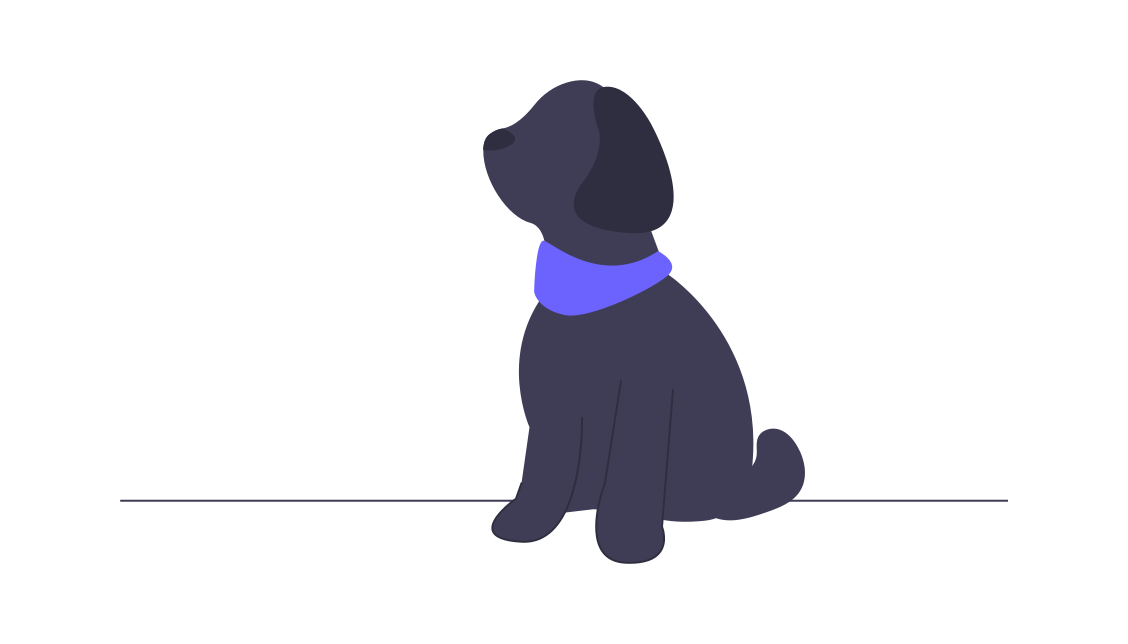
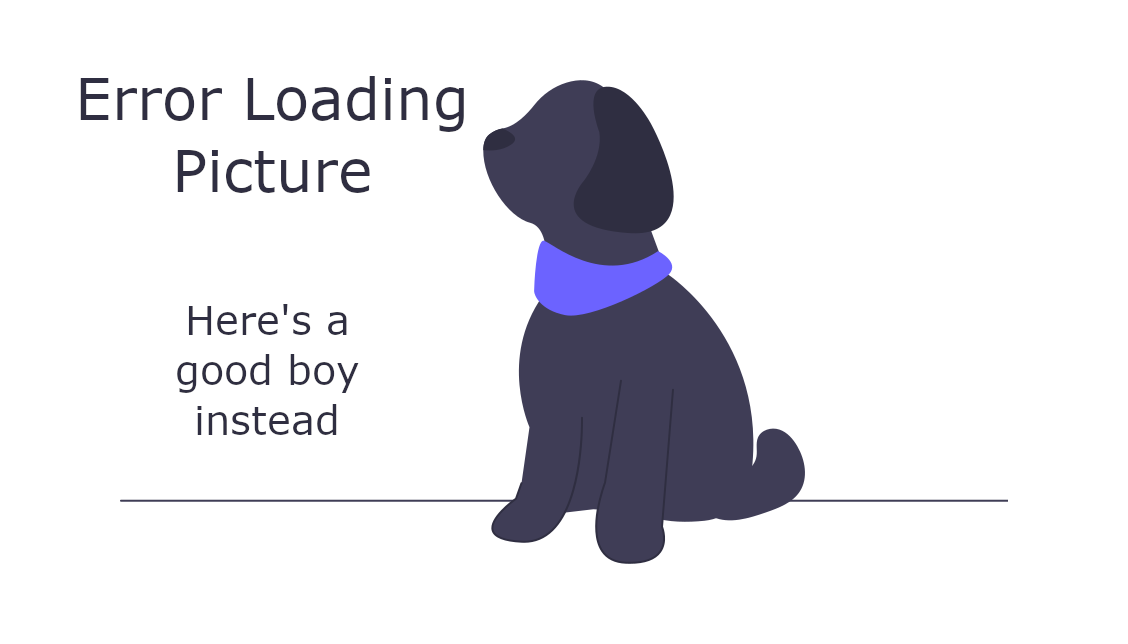
Update error image

diff --git a/src/components/PostCard.vue b/src/components/PostCard.vue
@@ -27,8 +27,9 @@
       <p class="post-body">{{ post.body }}</p>
       <img
         :src="post.imgUrl"
-        alt="Error Loading"
+        alt="Error Loading Picture"
         class="img-fluid post-image"
+        @error="loadDefaultImage"
         v-if="post.imgUrl"
       />
     </div>
